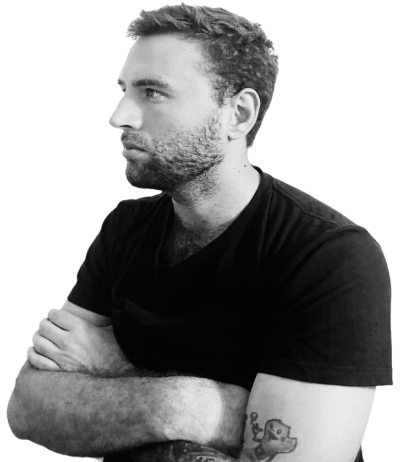
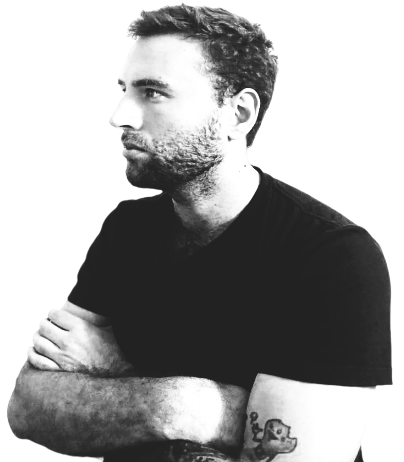
página lista

diff --git a/pages/sobremi.html b/pages/sobremi.html
@@ -1,20 +1,20 @@
 <!DOCTYPE html>
+
 <html lang="en">
+
 <head>
 
     <meta charset="UTF-8">
 
     <meta name="viewport" content="width=device-width, initial-scale=1.0">
 
+    <meta http-equiv="X-UA-Compatible" content="IE=edge">
+
     <title>Mena Web developer - Sobre Mí</title>
 
     <meta name="description" content="Martín Mena, desarrollador web. Visita mi sitio para conocer mis proyectos, servicios y contactarme para crear tu próximo sitio web.">
     <meta name="keywords" content="desarrollador web, portafolio, servicios, contacto, programación, HTML, CSS, JavaScript">
 
-    <link rel="preconnect" href="https://fonts.googleapis.com">
-    <link rel="preconnect" href="https://fonts.gstatic.com" crossorigin>
-    <link href="https://fonts.googleapis.com/css2?family=Anta&family=Micro+5&display=swap" rel="stylesheet">
-    <link rel="stylesheet" href="path/to/font-awesome/css/font-awesome.min.css">
     <link href="https://cdn.jsdelivr.net/npm/aos@2.3.4/dist/aos.css" rel="stylesheet">
     <link rel="stylesheet" href="https://maxcdn.bootstrapcdn.com/font-awesome/4.4.0/css/font-awesome.min.css">
     <link href="https://cdn.jsdelivr.net/npm/bootstrap@5.3.3/dist/css/bootstrap.min.css" rel="stylesheet" integrity="sha384-QWTKZyjpPEjISv5WaRU9OFeRpok6YctnYmDr5pNlyT2bRjXh0JMhjY6hW+ALEwIH" crossorigin="anonymous">
@@ -64,7 +64,13 @@
         <div class="allmuestras">
             <div class="perfil">
             <div><img src="../images/fotoperfil.JPG" alt=""></div>
-            <div class="mitexto">Soy Martín Mena, tengo 31 años y me dedico a hacer páginas web. Actualmente estudio en Coderhouse, donde sigo perfeccionando mis habilidades y conocimientos en desarrollo web. Mi experiencia abarca diferentes aspectos de dicha programación, como también siempre estoy buscando nuevos retos y oportunidades para crecer profesionalmente. Me encanta aprender y enfrentar desafíos en el mundo de la programación.</div>
+            <div class="mitexto">Soy Martín Mena, tengo 31 años y me dedico a hacer páginas web.
+
+Actualmente estudio en Coderhouse, donde sigo perfeccionando mis habilidades y conocimientos en Desarrollo Web.
+
+Mi objetivo, es seguir capacitándome haciendo cursos como Full Stack para poder crear sitios web mucho más funcionales y atractivas. Asimismo, me gusta trabajar en estrecha colaboración con mis clientes para entender sus necesidades.
+
+Por último, con respecto a mi experiencia, abarca diferentes aspectos del mundo de la programación como también estoy buscando nuevos retos y oportunidades para crecer profesionalmente.</div>
             </div></div>
             <div class="muestras" data-aos="zoom-out">
                 <div class="studio">
@@ -138,7 +144,10 @@
 </footer>
     
     <script src="https://cdn.jsdelivr.net/npm/bootstrap@5.3.3/dist/js/bootstrap.bundle.min.js" integrity="sha384-YvpcrYf0tY3lHB60NNkmXc5s9fDVZLESaAA55NDzOxhy9GkcIdslK1eN7N6jIeHz" crossorigin="anonymous"></script>
-    <div class="wppflotante"><a id="wppid" href="https://api.whatsapp.com/send?phone=1150109307" class="fa fa-whatsapp" target="_blank"></a></div>
+    
+    <div class="whatsapp-flotante">
+        <a id="whatsapp-buttom" href="https://api.whatsapp.com/send?phone=1150109307" class="fa fa-whatsapp" target="_blank"></a>
+      </div>
 
 </body>
 

diff --git a/index.html b/index.html
@@ -8,12 +8,13 @@
 
     <meta name="viewport" content="width=device-width, initial-scale=1.0">
 
+    <meta http-equiv="X-UA-Compatible" content="IE=edge">
+
     <title>Mena Web developer</title>
 
     <meta name="description" content="Martín Mena, desarrollador web. Visita mi sitio para conocer mis proyectos, servicios y contactarme para crear tu próximo sitio web.">
     <meta name="keywords" content="desarrollador web, portafolio, servicios, contacto, programación, HTML, CSS, JavaScript">
 
-    <link rel="stylesheet" href="path/to/font-awesome/css/font-awesome.min.css">
     <link href="https://cdn.jsdelivr.net/npm/aos@2.3.4/dist/aos.css" rel="stylesheet">
     <link rel="stylesheet" href="https://maxcdn.bootstrapcdn.com/font-awesome/4.4.0/css/font-awesome.min.css">
     <link href="https://cdn.jsdelivr.net/npm/bootstrap@5.3.3/dist/css/bootstrap.min.css" rel="stylesheet" integrity="sha384-QWTKZyjpPEjISv5WaRU9OFeRpok6YctnYmDr5pNlyT2bRjXh0JMhjY6hW+ALEwIH" crossorigin="anonymous">
@@ -65,11 +66,11 @@
       <div class="maininicio">
         <div class="mt">
          <div class="textmain">
-            <h1>Mena Martín <span>web developer</span></h1>
-            <p>En primer lugar, me presento Martín y les doy la bienvenida a mi sitio web donde van a encontrar los trabajos que realice para mis clientes.</p>
-            <p>Gracias a la tecnología que me permitió analizar e investigar, me llevó a tomar la decisión de estudiar el curso Desarrollo Web en Coderhouse.</p>
-            <p>Mi objetivo, es seguir capacitándome haciendo cursos como Full Stack para poder crear sitios web mucho más funcionales y atractivas. Asimismo, me gusta trabajar en estrecha colaboración con mis clientes para entender sus necesidades.</p>
-            <p><a id="contacto" href="./pages/contacto.html">Contáctenme</a> y les mostraré cómo podemos hacer que su sitio web sea una valiosa herramienta para su empresa.</p>
+            <h1>Mena Martín <span>web developer</span></h1><p>
+            <p>¡Hola! Me presento Martín y te doy la bienvenida a mi sitio web donde vas a poder mirar mis trabajos que desarrollé para mis clientes.</p>
+            <p> Si estás buscando hacer una página web y no sabes cómo, <a id="contacto" href="./pages/contacto.html">contáctame</a> y te mostraré como podemos hacer para que tu sitio web sea una valiosa herramienta para tu empresa.</p>
+              
+              Martín</p>
          </div> 
          <div class="fotop">
             <div><img class="kenburns-top-right" src="./images/pngm.png" alt="fotop"></div>
@@ -109,8 +110,8 @@
   <script>AOS.init();</script>
   <script src="https://cdn.jsdelivr.net/npm/bootstrap@5.3.3/dist/js/bootstrap.bundle.min.js" integrity="sha384-YvpcrYf0tY3lHB60NNkmXc5s9fDVZLESaAA55NDzOxhy9GkcIdslK1eN7N6jIeHz" crossorigin="anonymous"></script> 
 
-    <div class="wppflotante">
-      <a id="wppid" href="https://api.whatsapp.com/send?phone=1150109307" class="fa fa-whatsapp" target="_blank"></a>
+    <div class="whatsapp-flotante">
+      <a id="whatsapp-buttom" href="https://api.whatsapp.com/send?phone=1150109307" class="fa fa-whatsapp" target="_blank"></a>
     </div>
 
 </body>

diff --git a/pages/servicios.html b/pages/servicios.html
@@ -1,4 +1,5 @@
 <!DOCTYPE html>
+
 <html lang="en">
 
 <head>
@@ -7,15 +8,13 @@
 
     <meta name="viewport" content="width=device-width, initial-scale=1.0">
 
+    <meta http-equiv="X-UA-Compatible" content="IE=edge">
+
     <title>Mena Web developer - Servicios</title>
 
     <meta name="description" content="Martín Mena, desarrollador web. Visita mi sitio para conocer mis proyectos, servicios y contactarme para crear tu próximo sitio web.">
     <meta name="keywords" content="desarrollador web, portafolio, servicios, contacto, programación, HTML, CSS, JavaScript">
 
-    <link rel="preconnect" href="https://fonts.googleapis.com">
-    <link rel="preconnect" href="https://fonts.gstatic.com" crossorigin>
-    <link href="https://fonts.googleapis.com/css2?family=Anta&family=Micro+5&display=swap" rel="stylesheet">
-    <link rel="stylesheet" href="path/to/font-awesome/css/font-awesome.min.css">
     <link href="https://cdn.jsdelivr.net/npm/aos@2.3.4/dist/aos.css" rel="stylesheet">
     <link rel="stylesheet" href="https://maxcdn.bootstrapcdn.com/font-awesome/4.4.0/css/font-awesome.min.css">
     <link href="https://cdn.jsdelivr.net/npm/bootstrap@5.3.3/dist/css/bootstrap.min.css" rel="stylesheet" integrity="sha384-QWTKZyjpPEjISv5WaRU9OFeRpok6YctnYmDr5pNlyT2bRjXh0JMhjY6hW+ALEwIH" crossorigin="anonymous">
@@ -122,7 +121,9 @@
     <script>AOS.init();</script>
     <script src="https://cdn.jsdelivr.net/npm/bootstrap@5.3.3/dist/js/bootstrap.bundle.min.js" integrity="sha384-YvpcrYf0tY3lHB60NNkmXc5s9fDVZLESaAA55NDzOxhy9GkcIdslK1eN7N6jIeHz" crossorigin="anonymous"></script> 
 
-    <div class="wppflotante"><a id="wppid" href="https://api.whatsapp.com/send?phone=1150109307" class="fa fa-whatsapp" target="_blank"></a></div>
+    <div class="whatsapp-flotante">
+        <a id="whatsapp-buttom" href="https://api.whatsapp.com/send?phone=1150109307" class="fa fa-whatsapp" target="_blank"></a>
+      </div>
 
 </body>
 

diff --git a/pages/portfolio.html b/pages/portfolio.html
@@ -1,20 +1,20 @@
 <!DOCTYPE html>
+
 <html lang="en">
+
 <head>
 
     <meta charset="UTF-8">
 
     <meta name="viewport" content="width=device-width, initial-scale=1.0">
 
+    <meta http-equiv="X-UA-Compatible" content="IE=edge">
+
     <title>Mena Web developer - Portfolio</title>
 
     <meta name="description" content="Martín Mena, desarrollador web. Visita mi sitio para conocer mis proyectos, servicios y contactarme para crear tu próximo sitio web.">
     <meta name="keywords" content="desarrollador web, portafolio, servicios, contacto, programación, HTML, CSS, JavaScript">
 
-    <link rel="preconnect" href="https://fonts.googleapis.com">
-    <link rel="preconnect" href="https://fonts.gstatic.com" crossorigin>
-    <link href="https://fonts.googleapis.com/css2?family=Anta&family=Micro+5&display=swap" rel="stylesheet">
-    <link rel="stylesheet" href="path/to/font-awesome/css/font-awesome.min.css">
     <link href="https://cdn.jsdelivr.net/npm/aos@2.3.4/dist/aos.css" rel="stylesheet">
     <link rel="stylesheet" href="https://maxcdn.bootstrapcdn.com/font-awesome/4.4.0/css/font-awesome.min.css">
     <link href="https://cdn.jsdelivr.net/npm/bootstrap@5.3.3/dist/css/bootstrap.min.css" rel="stylesheet" integrity="sha384-QWTKZyjpPEjISv5WaRU9OFeRpok6YctnYmDr5pNlyT2bRjXh0JMhjY6hW+ALEwIH" crossorigin="anonymous">
@@ -135,8 +135,8 @@
 <script>AOS.init();</script>
 <script src="https://cdn.jsdelivr.net/npm/bootstrap@5.3.3/dist/js/bootstrap.bundle.min.js" integrity="sha384-YvpcrYf0tY3lHB60NNkmXc5s9fDVZLESaAA55NDzOxhy9GkcIdslK1eN7N6jIeHz" crossorigin="anonymous"></script>
 
-<div class="wppflotante">
-  <a id="wppid" href="https://api.whatsapp.com/send?phone=1150109307" class="fa fa-whatsapp" target="_blank"></a>
+<div class="whatsapp-flotante">
+  <a id="whatsapp-buttom" href="https://api.whatsapp.com/send?phone=1150109307" class="fa fa-whatsapp" target="_blank"></a>
 </div>
 
 </body>

diff --git a/pages/contacto.html b/pages/contacto.html
@@ -8,15 +8,13 @@
 
     <meta name="viewport" content="width=device-width, initial-scale=1.0">
 
+    <meta http-equiv="X-UA-Compatible" content="IE=edge">
+
     <title>Mena Web developer - Servicios</title>
 
     <meta name="description" content="Martín Mena, desarrollador web. Visita mi sitio para conocer mis proyectos, servicios y contactarme para crear tu próximo sitio web.">
     <meta name="keywords" content="desarrollador web, portafolio, servicios, contacto, programación, HTML, CSS, JavaScript">
 
-    <link rel="preconnect" href="https://fonts.googleapis.com">
-    <link rel="preconnect" href="https://fonts.gstatic.com" crossorigin>
-    <link href="https://fonts.googleapis.com/css2?family=Anta&family=Micro+5&display=swap" rel="stylesheet">
-    <link rel="stylesheet" href="path/to/font-awesome/css/font-awesome.min.css">
     <link href="https://cdn.jsdelivr.net/npm/aos@2.3.4/dist/aos.css" rel="stylesheet">
     <link rel="stylesheet" href="https://maxcdn.bootstrapcdn.com/font-awesome/4.4.0/css/font-awesome.min.css">
     <link href="https://cdn.jsdelivr.net/npm/bootstrap@5.3.3/dist/css/bootstrap.min.css" rel="stylesheet" integrity="sha384-QWTKZyjpPEjISv5WaRU9OFeRpok6YctnYmDr5pNlyT2bRjXh0JMhjY6hW+ALEwIH" crossorigin="anonymous">
@@ -118,7 +116,9 @@
     <script>AOS.init();</script>
     <script src="https://cdn.jsdelivr.net/npm/bootstrap@5.3.3/dist/js/bootstrap.bundle.min.js" integrity="sha384-YvpcrYf0tY3lHB60NNkmXc5s9fDVZLESaAA55NDzOxhy9GkcIdslK1eN7N6jIeHz" crossorigin="anonymous"></script> 
 
-    <div class="wppflotante"><a id="wppid" href="https://api.whatsapp.com/send?phone=1150109307" class="fa fa-whatsapp" target="_blank"></a></div>
+    <div class="whatsapp-flotante">
+      <a id="whatsapp-buttom" href="https://api.whatsapp.com/send?phone=1150109307" class="fa fa-whatsapp" target="_blank"></a>
+    </div>
     
 </body>
 

diff --git a/css/styles.css b/css/styles.css
@@ -156,7 +156,7 @@ main .textmain h1 {
   padding: 30px;
 }
 .imgstudio .soperativo img {
-  width: 100%;
+  width: 90%;
   height: 100%;
 }
 .imgstudio .iconstudio {
@@ -197,9 +197,11 @@ main .textmain h1 {
   justify-content: space-around;
   align-items: center;
 }
+.pyl img {
+  width: 100%;
+}
 
 .precios {
-  width: 100%;
   display: flex;
   flex-direction: column;
   align-items: center;
@@ -428,7 +430,7 @@ footer .by {
   border-radius: 10px;
 }
 
-.wppflotante {
+.whatsapp-flotante {
   position: fixed;
   line-height: 55px;
   bottom: 30px;
@@ -439,7 +441,7 @@ footer .by {
   overflow: hidden;
 }
 
-#wppid {
+#whatsapp-buttom {
   text-decoration: none;
   color: #171b21;
   box-shadow: 0px 1px 10px rgba(0, 0, 0, 0.3);
@@ -448,7 +450,7 @@ footer .by {
   padding: 20px;
   transition: 0.5s;
 }
-#wppid:hover {
+#whatsapp-buttom:hover {
   filter: brightness(70%);
 }
 

diff --git a/scss/styles.scss b/scss/styles.scss
@@ -165,7 +165,7 @@ main {
     }
 
     img{
-      width: 100%;
+      width: 90%;
       height: 100%;
     }
   }
@@ -207,10 +207,13 @@ main {
 
 .pyl{
   @include flex-space-around;
+
+  img{
+    width: 100%;
+  }
 }
 
   .precios {
-    width: 100%;
     display: flex;
     flex-direction: column; 
     align-items: center; 
@@ -447,7 +450,7 @@ footer {
   border-radius: 10px;
 }
 
-.wppflotante{
+.whatsapp-flotante{
   position: fixed;
   line-height: 55px;
   bottom: 30px;
@@ -458,7 +461,7 @@ footer {
   overflow: hidden;
 }
 
-#wppid{
+#whatsapp-buttom{
   text-decoration: none;
   color: $color-bluedark;
   box-shadow: 0px 1px 10px rgba(0,0,0,0.3);
